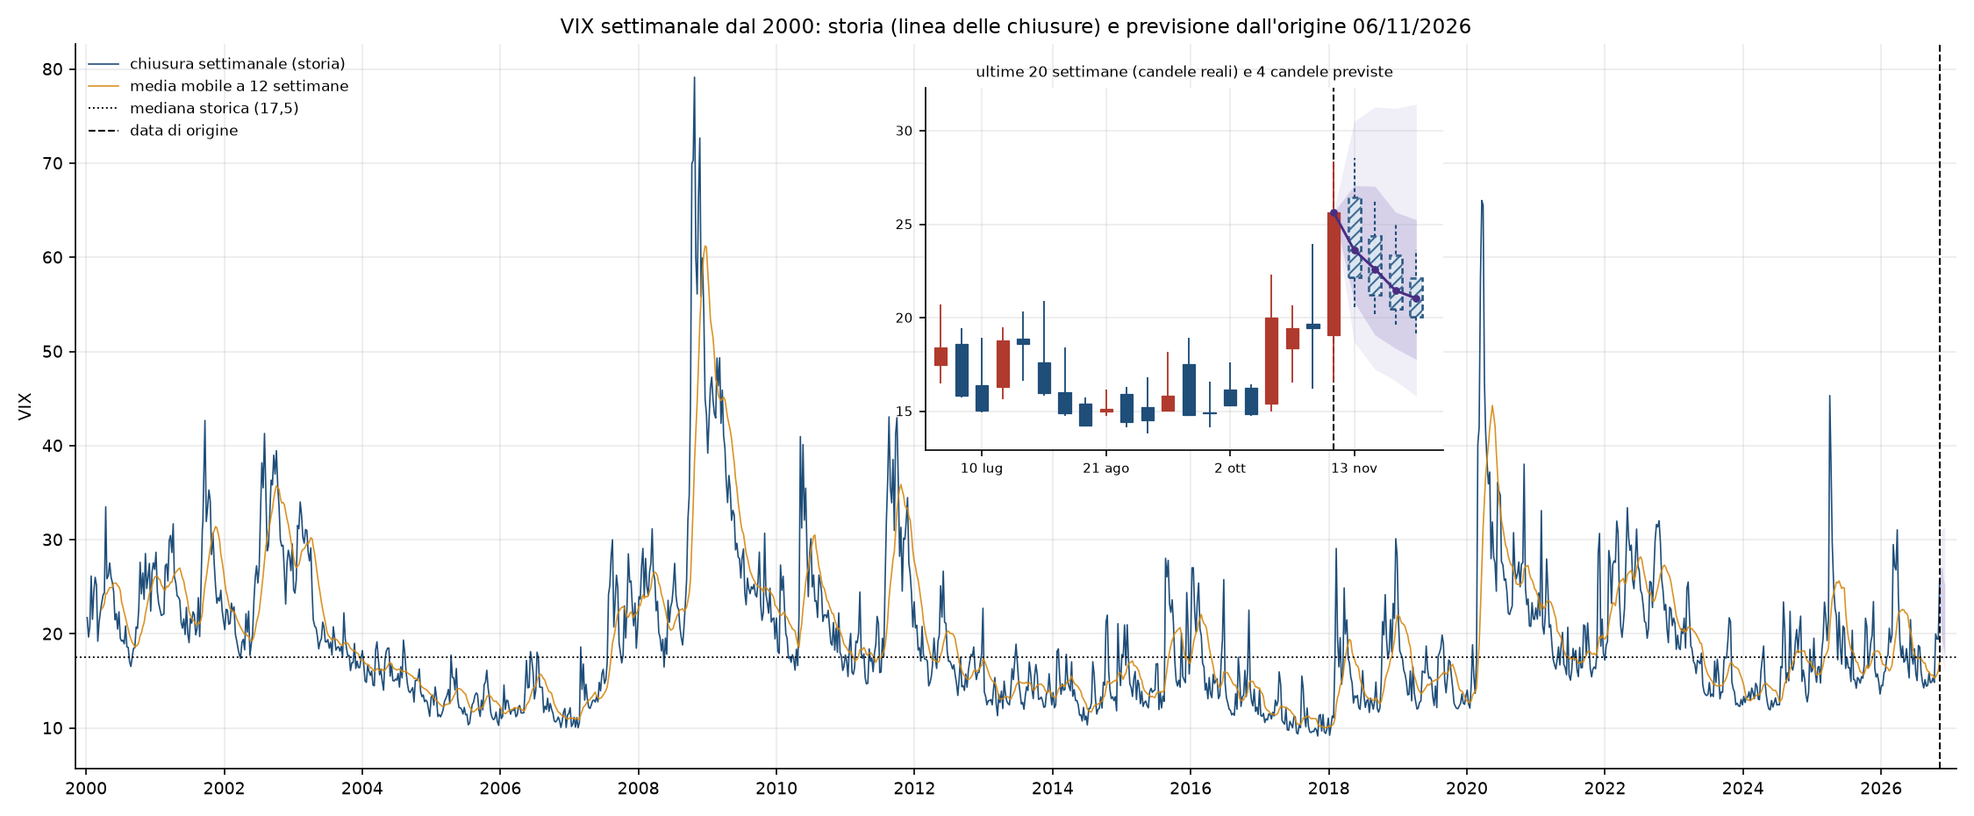
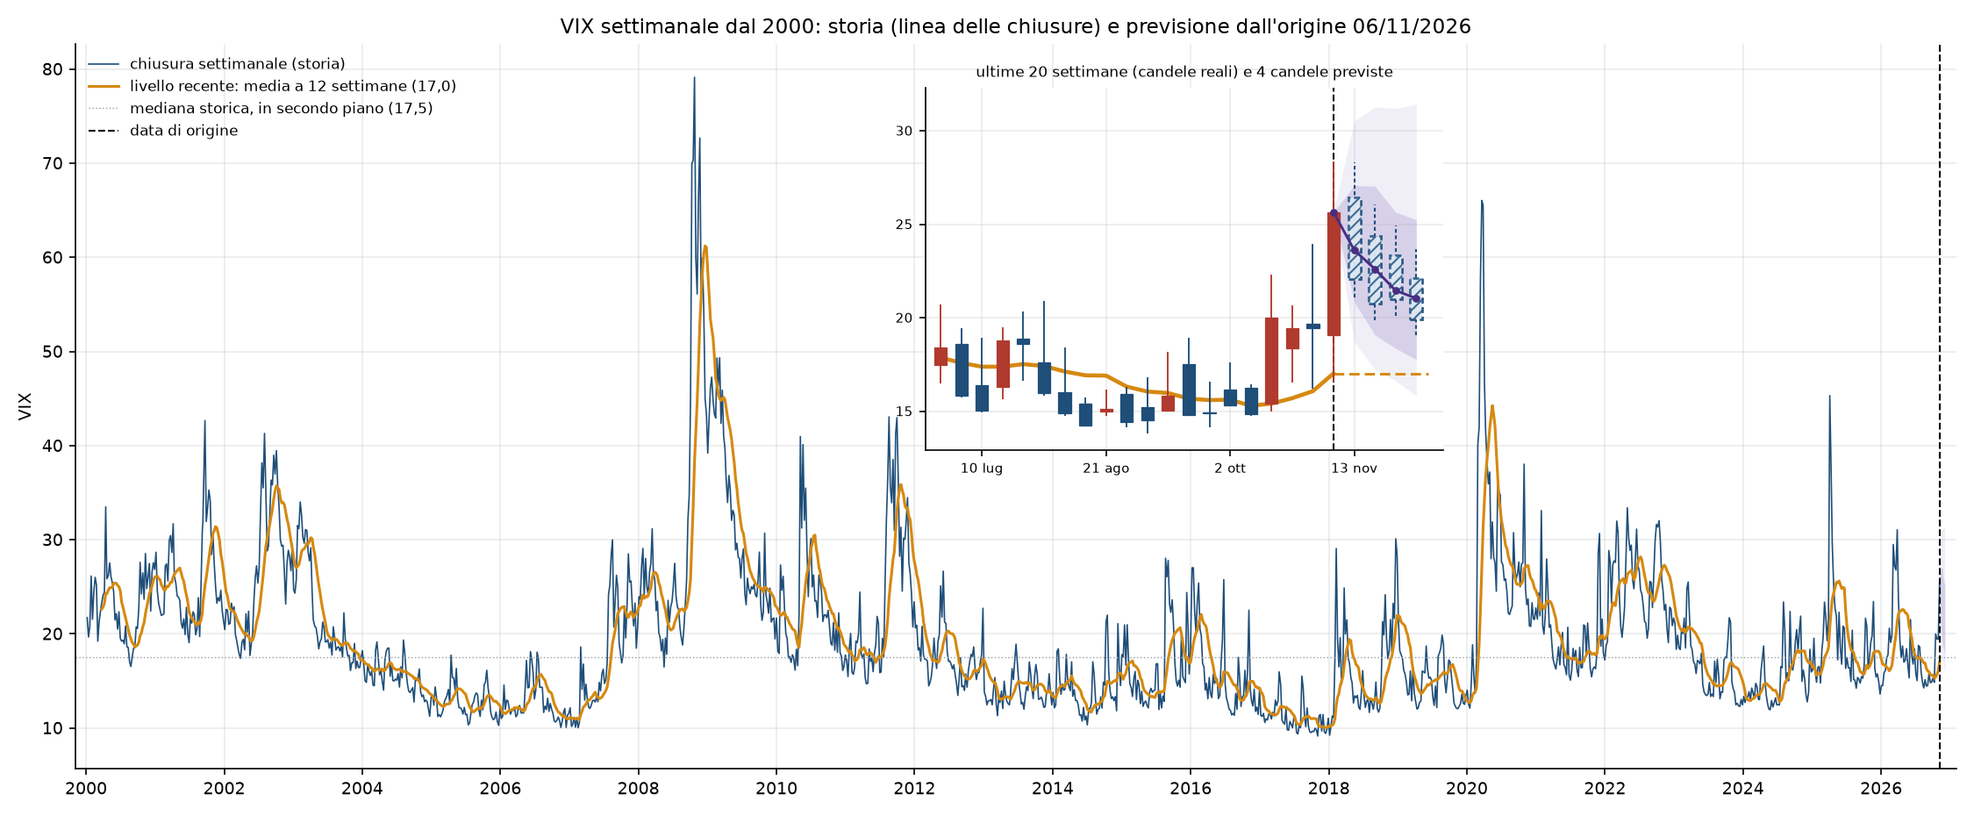
Previsione corrente con le nuove candele e README aggiornato

diff --git a/reports/previsione_corrente.md b/reports/previsione_corrente.md
@@ -10,7 +10,8 @@ Progetto universitario: non è un consiglio di investimento.*
 - È 8,16 punti sopra la mediana storica (17,48) e 8,62 punti sopra la media a 12 settimane (17,02); nelle ultime 4 settimane è salito del 72,8%.
 - Nei 61 precedenti con la stessa fascia e direzione (25-30, in rialzo) il VIX era più alto dopo 4 settimane nel 30% dei casi, con variazione mediana di −2,07 punti.
 - Per la settimana +4 il modello indica una chiusura mediana di 21,0, con fascia all'80% tra 15,8 e 31,4; la probabilità di una chiusura sopra 20 è 63%, sopra 30 è 8%.
-- La candela prevista per la settimana +1 è in ribasso (probabilità 68%): apertura 26,5, chiusura 22,2, escursione attesa tra 20,5 e 28,5.
+- Rispetto alla chiusura dell'origine (25,64), la direzione della chiusura è in ribasso (probabilità 74%) per la settimana +1 e in ribasso (probabilità 81%) per la settimana +4.
+- Candela prevista per la settimana +1: apertura 26,5, chiusura 22,0, escursione attesa tra 21,1 e 28,3 (ampiezze medie; il corpo è disegnato nella direzione storicamente più frequente).
 
 ## 1. Lettura della situazione
 
@@ -67,14 +68,15 @@ Dopo 4 settimane il VIX era più alto nel 30% dei casi; variazione mediana −18
 
 Valori in punti VIX. Due livelli, da leggere insieme.
 
-**Candele previste** (costruzione K2 ancorata alla mediana): la settimana più probabile per direzione e ampiezza.
+**Candele previste** (costruzione K2 ancorata alla mediana, ampiezze medie): una settimana di dimensioni medie. La colonna «chiusura rispetto all'origine»
+è l'etichetta scritta sopra le candele nel grafico: direzione della chiusura rispetto alla chiusura dell'origine, «neutra» tra 40% e 60%.
 
-|   settimana | data       | apertura   | massimo   | minimo   | chiusura   | direzione (probabilità)   | chiusura centrale (mediana D4)   | errore medio storico della candela: apertura / massimo / minimo / chiusura   |
-|------------:|:-----------|:-----------|:----------|:---------|:-----------|:--------------------------|:---------------------------------|:-----------------------------------------------------------------------------|
-|          +1 | 13/11/2026 | 26,46      | 28,54     | 20,55    | 22,16      | ribasso 68%               | 23,61                            | 0,7 / 2,3 / 1,2 / 2,3                                                        |
-|          +2 | 20/11/2026 | 24,36      | 26,33     | 20,17    | 21,21      | ribasso 64%               | 22,60                            | 2,3 / 3,5 / 1,8 / 2,9                                                        |
-|          +3 | 27/11/2026 | 23,32      | 25,01     | 19,62    | 20,50      | ribasso 64%               | 21,45                            | 2,9 / 4,0 / 2,2 / 3,2                                                        |
-|          +4 | 04/12/2026 | 22,13      | 23,60     | 19,15    | 20,07      | ribasso 68%               | 21,03                            | 3,2 / 4,4 / 2,4 / 3,5                                                        |
+|   settimana | data       | apertura   | massimo   | minimo   | chiusura   | chiusura rispetto all'origine   | probabilità che chiuda sopra l'origine   | chiusura centrale (mediana D4)   | errore medio storico della candela: apertura / massimo / minimo / chiusura   |
+|------------:|:-----------|:-----------|:----------|:---------|:-----------|:--------------------------------|:-----------------------------------------|:---------------------------------|:-----------------------------------------------------------------------------|
+|          +1 | 13/11/2026 | 26,46      | 28,30     | 21,08    | 22,05      | ribasso 74%                     | 26%                                      | 23,61                            | 0,7 / 2,1 / 1,3 / 2,4                                                        |
+|          +2 | 20/11/2026 | 24,36      | 26,06     | 19,87    | 20,78      | ribasso 79%                     | 21%                                      | 22,60                            | 2,3 / 3,4 / 1,9 / 2,9                                                        |
+|          +3 | 27/11/2026 | 23,32      | 24,95     | 20,08    | 20,99      | ribasso 79%                     | 21%                                      | 21,45                            | 2,9 / 4,0 / 2,2 / 3,3                                                        |
+|          +4 | 04/12/2026 | 22,13      | 23,68     | 19,05    | 19,92      | ribasso 81%                     | 19%                                      | 21,03                            | 3,2 / 4,3 / 2,5 / 3,6                                                        |
 
 **Chiusura centrale, fasce e probabilità** (mediana e fasce: modello D4; probabilità: modello D1). Tra parentesi la copertura storica di ogni fascia,
 cioè la frequenza con cui la chiusura reale vi è caduta nel walk-forward di sviluppo (927 previsioni a 4 settimane). Le fasce non sono ricalibrate.
@@ -86,8 +88,11 @@ cioè la frequenza con cui la chiusura reale vi è caduta nel walk-forward di sv
 |          +3 | 21,45                            | 18,4 – 25,6 (45%)                | 16,6 – 31,2 (73%)                | 15,5 – 38,1 (84%)                | 70,1%         | 23,4%         | 7,9%          | 3,2                                  |
 |          +4 | 21,03                            | 17,8 – 25,2 (44%)                | 15,8 – 31,4 (73%)                | 15,0 – 37,6 (84%)                | 63,1%         | 21,0%         | 8,2%          | 3,5                                  |
 
-- La **probabilità della direzione** viene dal modello L1. Nel walk-forward di sviluppo la direzione del corpo è stata indovinata nel 63,8% dei casi a 1 settimana,
-  contro il 63,8% di chi prevede sempre la direzione più frequente: **il modello non aggiunge capacità di previsione sulla direzione**.
+- L'**etichetta della chiusura** usa la probabilità del modello D1 (lo stesso delle probabilità di superare 20, 25 e 30). Nel walk-forward di sviluppo è stata «neutra» nel
+  69% dei casi a 1 settimana e nel 57% a 4; quando non era neutra è stata corretta nel 64% dei casi a 1 settimana
+  (291 casi) e nel 71% a 4 (394 casi).
+- Il **corpo** della candela è disegnato nella direzione storicamente più frequente (chiusura sotto l'apertura nel 65% delle settimane passate):
+  è una frequenza, non una previsione. Ampiezze: ampiezza del corpo: regressione per le settimane +1, +2, media storica per le altre; ombra superiore: media storica; ombra inferiore: media storica.
 - Gli errori storici sono errori assoluti medi in punti VIX misurati sul campione di sviluppo. Le date sono indicative (origine + 7 giorni per settimana).
 
 ## 3. Grafico
@@ -100,25 +105,28 @@ di previsione sono troppo strette per ospitarli).
 ### Come leggere il grafico
 
 - **Candele piene** = settimane reali (apertura ufficiale della prima seduta, massimo, minimo, chiusura). Rosso: chiusura sopra l'apertura; blu: chiusura sotto l'apertura.
-- **Candele vuote con bordo tratteggiato** = le quattro settimane previste. **La candela mostra la settimana più probabile per direzione e ampiezza**: apertura attesa, direzione più probabile del corpo (con la sua probabilità scritta sopra), ampiezza tipica del corpo e delle ombre.
-- **La linea viola con i punti è la mediana D4, cioè il valore centrale della chiusura: la media degli esiti possibili**, rialzi e ribassi insieme. Dove la candela si allontana dalla linea si vede la differenza tra «la settimana più probabile» e «il centro di tutte le settimane possibili».
-- **Perché le candele previste sono quasi sempre blu.** L'apertura ufficiale del VIX è di norma più alta della chiusura precedente (mediana storica: +3,1%) e nel passato la settimana ha chiuso sotto la propria apertura nel 64% dei casi. Una candela blu non significa che il VIX scenderà rispetto a oggi: guarda la linea centrale per questo.
+- **Candele vuote con bordo tratteggiato** = le quattro settimane previste. La candela mostra una settimana di **dimensioni medie**: apertura attesa, corpo e ombre di ampiezza media. Il corpo è disegnato nella direzione che nel passato è stata più frequente (frequenza storica, non una previsione).
+- **Perché le candele previste sono blu.** L'apertura ufficiale del VIX è di norma più alta della chiusura precedente (mediana storica: +3,1%) e nel passato la settimana ha chiuso sotto la propria apertura nel 65% dei casi. **Il colore della candela non dice dove chiuderà il VIX rispetto a oggi.**
+- **La scritta sopra ogni candela dice dove chiuderà il VIX rispetto alla chiusura dell'origine** (per la settimana +1 è la chiusura della settimana prima): «rialzo» o «ribasso» con la sua probabilità (modello D1), oppure **«neutra» quando la probabilità è tra 40% e 60%**. Nel walk-forward di sviluppo l'etichetta è stata «neutra» nel 69% dei casi a 1 settimana e nel 57% a 4; quando non era neutra è stata corretta nel 64% dei casi a 1 settimana e nel 71% a 4.
+- **La linea arancione spessa è il livello recente (media delle chiusure delle ultime 12 settimane): è il riferimento principale.** Il tratteggio la prolunga fino alla settimana +4 per confrontarla con la previsione. La mediana storica (linea grigia punteggiata) resta in secondo piano.
+- **La linea viola con i punti è la mediana D4, cioè il valore centrale della chiusura.** Dove la candela si allontana dalla linea si vede la differenza tra «una settimana di dimensioni medie» e «il centro di tutte le chiusure possibili».
 - **Le fasce colorate sullo sfondo indicano l'incertezza sulla chiusura**: la più scura è la fascia al 50%, la più chiara quella all'80%. La copertura misurata nel passato è in tabella ed è più bassa del valore nominale.
-- **Le ombre delle candele indicano l'escursione attesa dentro la settimana** (massimo e minimo tipici), non un intervallo di confidenza: nel walk-forward di sviluppo la chiusura reale è caduta dentro l'escursione prevista nel 47% dei casi a 1 settimana e nel 31% a 4.
-- **Linea tratteggiata verticale** = data di origine: a destra tutto è previsione. **Linea arancione** = media mobile a 12 settimane; **linea punteggiata** = mediana storica.
+- **Le ombre delle candele indicano l'escursione media dentro la settimana**, non un intervallo di confidenza: nel walk-forward di sviluppo la chiusura reale è caduta dentro l'escursione prevista nel 58% dei casi a 1 settimana e nel 41% a 4.
+- **Linea tratteggiata verticale** = data di origine: a destra tutto è previsione.
 - **Linee grigie sottili** (pannello di ingrandimento) = cosa è successo davvero nelle 4 settimane successive ai casi simili del passato, riportato al livello attuale. Non sono una previsione.
 
 ## 4. Verifica visiva sul passato
 
-![Verifica sul passato](figures/fase2c/g3_verifica_passato.png)
+![Verifica sul passato](figures/fase3/g3_verifica_passato.png)
 
-Dodici origini scelte con regola fissa (12 origini, una ogni 52 settimane a ritroso a partire da 4 settimane prima dell'ultima data di sviluppo), tutte nel campione di sviluppo. Chiusura reale a 4 settimane dentro la fascia al 50%: 6 pannelli su 12; dentro la fascia all'80%: 9 su 12. Direzione del corpo indovinata: 33 candele su 48.
-Dodici casi sono pochi: servono a vedere come si comporta la previsione, non a misurarla. Le misure sono in `fase2c_report.md`.
+Dodici origini scelte con regola fissa (12 origini, una ogni 52 settimane a ritroso a partire da 4 settimane prima dell'ultima data di sviluppo), tutte nel campione di sviluppo. Chiusura reale a 4 settimane dentro la fascia al 50%: 6 pannelli su 12; dentro la fascia all'80%: 9 su 12. Etichette della chiusura non neutre: 24 su 48, corrette 17.
+Dodici casi sono pochi: servono a vedere come si comporta la previsione, non a misurarla. Le misure sono in `fase3_report.md` (Parte 0).
 
 ## 5. Avvertenze
 
-- Le candele previste sono più piccole di quelle reali: nel walk-forward il corpo medio previsto è il 76% di quello reale e l'escursione il 66% (a 1 settimana). Mostrano valori tipici, e le settimane estreme non sono tipiche.
+- Le candele previste restano un po' più piccole di quelle reali: nel walk-forward, a 1 settimana, il rapporto tra corpo medio previsto e reale è 86% e quello tra escursione prevista e reale è 80%. Le ampiezze sono medie del passato, e negli ultimi anni corpi e ombre sono stati più ampi della media di tutta la storia.
+- La chiusura della candela **non** è la previsione centrale della chiusura: quella è la mediana D4 (linea viola).
 - Le fasce coprono meno del nominale: a 4 settimane quella al 50% ha contenuto la chiusura reale nel 44% dei casi, quella all'80% nel 73%, quella al 90% nel 84%.
 - Candele, fasce (D4) e probabilità (D1) vengono da modelli diversi e possono non essere perfettamente coerenti tra loro.
-- Il modello non anticipa i picchi e usa solo lo storico del VIX.
+- Il modello non anticipa i picchi e usa solo lo storico settimanale del VIX. I modelli con dati giornalieri e di mercato misurati nella Fase 3 non sono usati qui.
 - Ogni esecuzione senza `--origine` viene scritta in `reports/registro_previsioni.csv`; `python -m src.forecast --verifica` confronta il registro con le settimane completate.

diff --git a/README.md b/README.md
@@ -9,7 +9,8 @@ Il lavoro procede per fasi; ogni fase si chiude con un report in `reports/`.
 | 1 | pattern storici (dopo e prima dei picchi, periodi calmi, tabelle condizionate) e modelli che usano solo il VIX | [reports/fase1_report.md](reports/fase1_report.md) |
 | 2 | previsione probabilistica attorno al tipo HAR (quantili, intervalli, probabilità di eventi), scheda di previsione, raccolta dei dati esterni | [reports/fase2_report.md](reports/fase2_report.md) |
 | 2b | programma di previsione a 1-4 settimane con grafico a candele | [reports/fase2b_report.md](reports/fase2b_report.md) |
-| 2c | candele previste realistiche e misurabili, registro delle previsioni | [reports/fase2c_report.md](reports/fase2c_report.md) · previsione corrente: [reports/previsione_corrente.md](reports/previsione_corrente.md) |
+| 2c | candele previste realistiche e misurabili, registro delle previsioni | [reports/fase2c_report.md](reports/fase2c_report.md) |
+| 3 | nuova definizione delle candele (Parte 0); quanto aggiungono il VIX giornaliero e i dati di mercato a chiusura, direzione e fasce | [reports/fase3_report.md](reports/fase3_report.md) · previsione corrente: [reports/previsione_corrente.md](reports/previsione_corrente.md) |
 
 ## Il programma di previsione
 
@@ -24,8 +25,10 @@ Cosa fa: legge l'intero storico, esclude la settimana incompleta (riga con la co
 ultima riga con meno sedute di quelle attese: in questo caso avvisa a schermo), stima i modelli sulla storia fino
 all'origine e produce, per le settimane +1 … +4:
 
-- una **candela prevista** (apertura, massimo, minimo, chiusura) con la **probabilità della direzione**: è la settimana
-  più probabile per direzione e ampiezza;
+- una **candela prevista** (apertura, massimo, minimo, chiusura): una settimana di dimensioni medie, con il corpo
+  disegnato nella direzione storicamente più frequente;
+- la **direzione della chiusura rispetto alla chiusura dell'origine**, con la sua probabilità: «rialzo», «ribasso»
+  oppure «neutra» quando la probabilità è tra 40% e 60% (è la scritta sopra ogni candela nel grafico);
 - la **chiusura centrale** (mediana), cioè il centro di tutti gli esiti possibili;
 - le **fasce della chiusura** al 50%, 80% e 90%, ciascuna con la copertura misurata nel passato;
 - le **probabilità** di chiudere sopra 20, 25 e 30;
@@ -49,21 +52,25 @@ rieseguire il comando. Il file deve avere le colonne `week_start, last_trading_d
 trading_days, note`; servono almeno 7 anni circa di storia.
 
 Come leggere il grafico: le candele piene sono settimane reali, quelle vuote con bordo tratteggiato sono previste.
-**La candela mostra la settimana più probabile per direzione e ampiezza; la linea viola (mediana) è il centro degli
-esiti possibili; le fasce colorate indicano l'incertezza sulla chiusura.** Le candele previste sono quasi sempre in
-ribasso perché l'apertura ufficiale del VIX è di norma più alta della chiusura precedente: per sapere se il VIX sarà
-più alto o più basso di oggi si guarda la linea centrale, non il colore della candela. Le fasce coprono meno del valore
-nominale: la copertura reale è scritta in tabella.
+**La candela mostra una settimana di dimensioni medie; la scritta sopra la candela dice se la chiusura sarà sopra o
+sotto la chiusura dell'origine (o «neutra»); la linea viola (mediana) è il centro degli esiti possibili; le fasce
+colorate indicano l'incertezza sulla chiusura; la linea arancione spessa è il livello recente (media a 12 settimane),
+riferimento principale.** Le candele previste sono blu perché l'apertura ufficiale del VIX è di norma più alta della
+chiusura precedente e la settimana chiude più spesso sotto la propria apertura: il colore non dice dove chiuderà il
+VIX rispetto a oggi, lo dicono la scritta e la linea centrale. Le fasce coprono meno del valore nominale: la copertura
+reale è scritta in tabella.
 
 Il registro serve a misurare le previsioni dal vivo, non a scegliere modelli: dopo ogni aggiornamento del file,
 `python -m src.forecast` registra la nuova previsione e `python -m src.forecast --verifica` mostra come sono andate
 quelle precedenti.
 
-Limiti: usa solo lo storico del VIX; non anticipa i picchi; è un progetto universitario, non un consiglio di
+Limiti: usa solo lo storico settimanale del VIX (i modelli con VIX giornaliero e dati di mercato misurati nella
+Fase 3 **non** sono nel programma); non anticipa i picchi; è un progetto universitario, non un consiglio di
 investimento. `src.forecast` è l'unico comando che legge i dati successivi all'8 novembre 2024, e solo come storia
 da cui prevedere: errori e coperture mostrati nella scheda sono quelli misurati sul campione di sviluppo da
-`python -m src.run_phase2b` e `python -m src.run_phase2c`. Solo `--verifica` confronta previsioni e dati recenti, e
-solo per le previsioni già scritte nel registro.
+`python -m src.run_phase2b` e `python -m src.run_phase3`. Solo `--verifica` confronta previsioni e dati recenti, e
+solo per le previsioni già scritte nel registro. Le previsioni registrate prima della Fase 3 restano nel registro con
+le candele di allora (colonna `costruzione`).
 
 ## Come riprodurre
 
@@ -79,12 +86,17 @@ python -m src.run_phase1   # Fase 1: pattern storici, modelli M0-M7, report (cir
 python -m src.run_phase2   # Fase 2: modelli di densità, eventi, scheda di previsione, report (circa 5 minuti)
 python -m src.run_phase2b  # Fase 2b: misure per h = 1-4 su chiusura, massimo e minimo, grafico di verifica, report (circa 4 minuti)
 python -m src.run_phase2c  # Fase 2c: componenti e pagella delle candele, regola di scelta, report (circa 1 minuto; richiede run_phase2b)
+python -m src.run_phase3   # Fase 3: nuove candele, blocchi con VIX giornaliero e dati di mercato, report (circa 3 minuti; richiede run_phase2c e i dati esterni)
 python -m pytest           # test (anti look-ahead, integrità dell'holdout, metriche)
 ```
 
-I tre comandi sono deterministici: rieseguendoli si ottengono gli stessi file. `run_phase1` e `run_phase2`
+I comandi sono deterministici: rieseguendoli si ottengono gli stessi file. `run_phase1` e `run_phase2`
 richiedono `data/processed/vix_weekly_dev.csv`, prodotto da `run_phase0`. Versioni e seed sono in
 `reports/run_manifest.json`, `reports/fase1/run_manifest.json` e `reports/fase2/run_manifest.json`.
+
+`run_phase3` legge anche `data/external/dev/esterni_giornalieri_dev.csv`, che **non è nel repository**: va prodotto
+prima con `python -m src.fetch_external` (vedi sotto). Senza i dati esterni si può rigenerare la sola Parte 0 (le
+nuove candele) con `python -m src.fase3.valuta_candele`, e i test che richiedono i dati esterni vengono saltati.
 
 ### Dati esterni (Fase 2, Parte C)
 
@@ -98,8 +110,10 @@ Lo scarico non è deterministico (dipende dal giorno) ed è separato da `run_pha
 `data/external/raw/` (originali), `data/external/dev/` (serie giornaliere e settimanali fino al confine di
 sviluppo) e `data/external/holdout/` (parte successiva, bloccata). **`data/external/` non è nel repository**:
 contiene dati di terzi; nel repository ci sono il programma di scarico e l'inventario
-(`reports/fase2/c_inventario.json`). In questa fase i dati esterni sono solo raccolti: non sono usati da
-alcun modello.
+(`reports/fase2/c_inventario.json`). Nella Fase 2 i dati esterni sono solo raccolti. Dalla Fase 3 la parte di
+sviluppo (VIX giornaliero, VIX3M, VVIX, S&P 500, future VX1 e VX2) è usata da `run_phase3` per misurare quanto
+aggiunge a M1; l'indice delle condizioni finanziarie e i differenziali di credito sono esclusi. La parte di holdout
+resta bloccata dalla guardia.
 
 ## Struttura
 
@@ -146,6 +160,17 @@ src/
     settimana.py   riconoscimento della settimana incompleta
     testo.py       tabella e testi della scheda
     report.py      costruisce il report leggendo reports/fase2c/*.csv e *.json
+  run_phase3.py    misure di sviluppo della Fase 3, sotto la guardia
+  fase3/
+    candele.py         Parte 0: candele K2 con ampiezze medie, direzione L0, etichetta della chiusura (usato da forecast.py)
+    valuta_candele.py  Parte 0: regressione contro media storica, nuova pagella, grafico G3
+    testo.py           tabella e testi della scheda (usato da forecast.py)
+    registro.py        registro con l'etichetta della chiusura (usato da forecast.py)
+    dati.py            unico accesso ai dati esterni di sviluppo (solo le serie dell'elenco chiuso)
+    variabili.py       variabili dei blocchi G1 e X1-X4, calcolate con i soli dati disponibili a fine settimana
+    modelli.py         elenco chiuso: blocchi G1, X1-X4, combinazioni X6 (ridge) e X7 (media) per T1, T2, T3
+    valuta.py          walk-forward, tabelle, regole di scelta, figure
+    report.py          costruisce il report leggendo reports/fase3/*.csv e *.json
 tests/             test automatici
 reports/           report, tabelle (.csv/.json) e figure; i risultati delle Fasi 1 e 2 sono in reports/fase1/, reports/fase2/ e nelle rispettive cartelle di figure
 notebooks/         opzionale, vuota
@@ -163,11 +188,15 @@ notebooks/         opzionale, vuota
   stravolgendo i dati futuri e verificando che le previsioni passate non cambino; `tests/test_fase1.py`
   fa lo stesso per tutti i modelli della Fase 1, `tests/test_fase2.py` per i modelli di densità e per
   l'allineamento settimanale dei dati esterni (ogni valore usato deve essere disponibile entro la data).
+  `tests/test_fase3.py` lo fa per tutte le variabili della Fase 3 (ogni riga settimanale non cambia se si tolgono o
+  si stravolgono i dati giornalieri successivi all'ultima seduta della settimana) e per tutti i modelli dei blocchi.
 - **Elenco chiuso dei modelli.** In Fase 1 i modelli e i loro parametri sono fissati in
   `src/fase1/modelli.py` prima della valutazione; un test ne controlla l'elenco. Lo stesso vale per i
-  modelli di densità della Fase 2 (`src/fase2/densita.py`).
-- **Colonne.** `open` non è usata (scartata alla lettura in Fase 1); `high` e `low` compaiono solo
-  nell'analisi esplorativa A2.
+  modelli di densità della Fase 2 (`src/fase2/densita.py`) e per i blocchi della Fase 3 (`src/fase3/modelli.py`,
+  `src/fase3/variabili.py`): regole di scelta e parametri sono scritti nel codice prima della valutazione.
+- **Colonne.** Nelle Fasi 1 e 2 `open` non è usata (scartata alla lettura) e `high` e `low` compaiono solo
+  nell'analisi esplorativa A2; dalla Fase 2b `high` e `low` sono obiettivi di previsione e dalla Fase 2c `open`,
+  `high` e `low` entrano nei modelli delle candele (esclusa l'apertura anomala dell'8 novembre 2004).
 - **Numeri del report.** Il report è generato da `src/report.py` a partire dai file prodotti dal codice;
   non contiene valori scritti a mano.
 - **Dati grezzi.** `data/raw/` non viene mai modificato; anomalie e ambiguità sono segnalate nel report,
